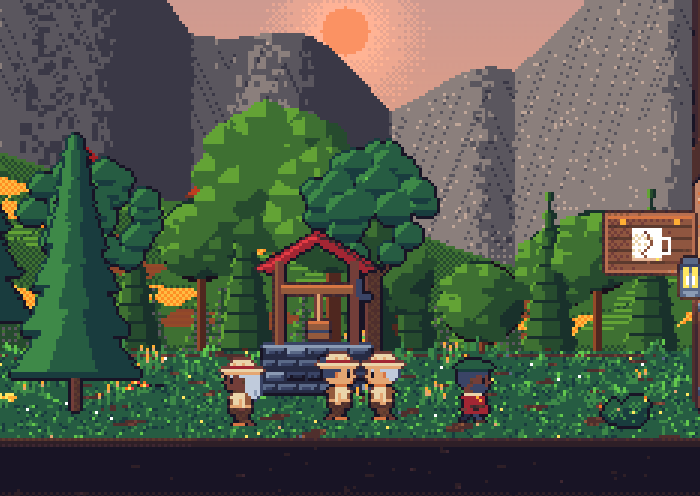
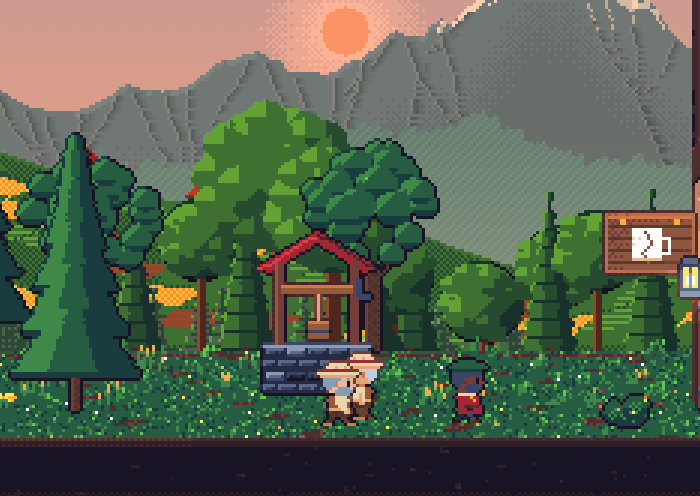
Montañas: silueta de sierra de verdad, lejanas con bruma, nieve a manchas y cañadas que confluyen
- La cresta (común al día y a la noche): cumbres agudas de tres tamaños con flancos cóncavos,
  collados y hombros sobre una base común, y la cresta mellada en lo alto. Antes eran cúpulas
  redondas con puntas hacia abajo.
- De día: la silueta de noche aclarada con la luz azulada (como antes) y bruma que sube del
  horizonte; nieve a manchas que baja más en las cumbres altas; bosque azulado al pie, mellado.
- Cañadas: nacen en la cresta a cada lado de cada pico, bajan en diagonal serpenteando y se
  juntan en un barranco; en lo alto guardan nieve; la cresta de al lado, al sol, y la otra en
  sombra.

Claude-Session: https://claude.ai/code/session_011Wau2CUcks799q681YrKG8

diff --git a/src/world/parallax.ts b/src/world/parallax.ts
@@ -93,9 +93,25 @@ export function stars(): Star[] {
 
 /** Cresta de las montañas: picos marcados (valor absoluto de senos) y algo de detalle. */
 export function ridgeAt(x: number): number {
-  const a = Math.abs(Math.sin(x * 0.013 + 0.4)) * 58;
-  const c = Math.abs(Math.sin(x * 0.029 + 2.1)) * 22;
-  return 238 - a - c - Math.sin(x * 0.11) * 3;
+  // Picos agudos (1 − |sen|: punta arriba, valle redondo abajo) y, con la potencia, flancos
+  // cóncavos que se abren hacia abajo, como los montes de verdad; de tres tamaños.
+  const peak = (f: number, ph: number, p: number) => (1 - Math.abs(Math.sin(x * f + ph))) ** p;
+  // Sobre una base común (la sierra no se corta: collados y hombros entre las cumbres).
+  const base = 18 + Math.sin(x * 0.004 + 1) * 6;
+  const big = peak(0.0105, 0.4, 1.2) * 46;
+  const mid = peak(0.027, 2.1, 1.3) * 22 * (0.55 + big / 90);
+  const small = peak(0.071, 0.7, 1.2) * 7;
+  const h = base + big + mid + small;
+  // En lo alto, la cresta mellada: agujas y muescas de roca (más cuanto más alto).
+  const i = Math.floor(x / 3);
+  const u = x / 3 - i;
+  const crag = (a: number) => {
+    let v = Math.imul(a * 374761393 + 13, 1274126177);
+    v ^= v >>> 13;
+    return ((Math.imul(v, 1103515245) >>> 0) % 1000) / 1000 - 0.5;
+  };
+  const rough = crag(i) + (crag(i + 1) - crag(i)) * u;
+  return 244 - h - rough * 5 * Math.min(1, Math.max(0, h - 20) / 40);
 }
 
 /** Lomo de las colinas. */
@@ -291,52 +307,175 @@ const hash = (x: number, y: number, s = 0) => {
 };
 
 /**
- * Montañas de día: lejos y azuladas (la bruma), con la cara al sol clara y la otra en sombra,
- * cañadas que bajan de los picos, nieve en lo alto y un bosque azulado en el pie.
+ * Las cañadas de las montañas, como en la realidad: a cada lado de cada pico nacen varias en la
+ * cresta, bajan en diagonal y se juntan en un punto; de ahí sigue un solo barranco, que se
+ * pierde en la bruma. Oscuras, con el borde de la izquierda (al sol) más claro.
+ */
+function gullies(b: PixelBuffer): void {
+  const inside = (x: number, y: number) => b.inside(x, y) && b.get(x, y) >>> 24 !== 0;
+  /** Oscurece (`k` < 1) o aclara hacia el blanco (`k` > 1) un píxel ya pintado. */
+  const tone = (x: number, y: number, k: number) => {
+    const c = b.get(x, y);
+    const ch = [c & 255, (c >> 8) & 255, (c >> 16) & 255].map((v) =>
+      Math.round(k < 1 ? v * k : v + (255 - v) * (k - 1)),
+    );
+    b.data[y * b.w + x] = ((255 << 24) | (ch[2]! << 16) | (ch[1]! << 8) | ch[0]!) >>> 0;
+  };
+  const done = new Set<number>();
+  const groove = (
+    x0: number,
+    y0: number,
+    x1: number,
+    y1: number,
+    wide: boolean,
+    fade: number,
+    seed: number,
+  ) => {
+    const n = Math.max(1, Math.abs(x1 - x0), Math.abs(y1 - y0));
+    for (let k = 0; k <= n; k++) {
+      const u = k / n;
+      // En diagonal, algo más derecha arriba, y serpenteando un poco.
+      const wob = Math.sin(u * 9 + seed * 7) * 0.9 * Math.sin(u * Math.PI);
+      const x = Math.round(x0 + (x1 - x0) * u ** 1.15 + wob);
+      const y = Math.round(y0 + (y1 - y0) * u);
+      if (!inside(x, y) || y <= Math.round(ridgeAt(x)) + 1) continue;
+      // Se desvanece hacia abajo (la bruma se la come) y no entra en el bosque.
+      if (bayer(x, y) > 1 - (fade + u * (1 - fade)) * 0.7) continue;
+      if (y > forestAt(x) - 1) continue;
+      const top = Math.round(ridgeAt(x));
+      // En lo alto, la cañada guarda nieve: una franja blanca (como los canales de la foto).
+      if (y - top < snowAt(x, top) * 2.4 && u < 0.6) {
+        for (let w = 0; w < (wide ? 2 : 1); w++)
+          if (inside(x + w, y) && !done.has(y * b.w + x + w)) {
+            done.add(y * b.w + x + w);
+            tone(x + w, y, 1.55);
+          }
+        continue;
+      }
+      for (let w = 0; w < (wide ? 2 : 1); w++) {
+        const key = y * b.w + x + w;
+        if (done.has(key) || !inside(x + w, y)) continue;
+        done.add(key);
+        tone(x + w, y, 0.8);
+      }
+      // El borde de la izquierda, al sol; a la derecha, la sombra del espolón.
+      const lx = x - 1;
+      if (inside(lx, y) && !done.has(y * b.w + lx)) {
+        done.add(y * b.w + lx);
+        tone(lx, y, 1.12);
+      }
+      for (const [dx, k] of [
+        [wide ? 2 : 1, 0.9],
+        [wide ? 3 : 2, 0.95],
+      ] as const) {
+        const key = y * b.w + x + dx;
+        if (inside(x + dx, y) && !done.has(key)) {
+          done.add(key);
+          tone(x + dx, y, k);
+        }
+      }
+    }
+  };
+  // Los picos: donde la cresta es más alta que alrededor.
+  for (let x = 6; x < b.w - 6; x++) {
+    const top = ridgeAt(x);
+    let peak = true;
+    for (let d = 1; d <= 8 && peak; d++)
+      if (ridgeAt(x - d) < top || ridgeAt(x + d) < top) peak = false;
+    if (!peak) continue;
+    const tall = GROUND - top;
+    if (tall < 30) continue;
+    for (const side of [-1, 1]) {
+      const r = (i: number) => hash(x * 2 + (side > 0 ? 1 : 0), i, 21);
+      // Dónde se juntan (cada pico a su manera), y el barranco que sigue.
+      const meet = {
+        x: Math.round(x + side * (8 + tall * (0.14 + r(1) * 0.12))),
+        y: Math.round(top + tall * (0.32 + r(2) * 0.18)),
+      };
+      const end = {
+        x: meet.x + side * Math.round(tall * (0.08 + r(3) * 0.14)),
+        y: Math.round(GROUND - 12 - r(4) * 8),
+      };
+      groove(meet.x, meet.y, end.x, end.y, true, 0.3, r(5));
+      // Las que bajan de la cresta hasta juntarse; alguna llega al barranco más abajo y otra
+      // se queda corta (no todas iguales).
+      const n = 2 + Math.floor(r(6) * 3);
+      let sx = x + side * Math.round(1 + r(7) * 3);
+      for (let k = 0; k < n; k++) {
+        if (r(10 + k) < 0.2) continue;
+        const sy = Math.round(ridgeAt(sx)) + 2;
+        const v = k === n - 1 && r(20 + k) < 0.6 ? 0.3 + r(30 + k) * 0.3 : 0;
+        groove(
+          sx,
+          sy,
+          Math.round(meet.x + (end.x - meet.x) * v),
+          Math.round(meet.y + (end.y - meet.y) * v),
+          false,
+          0,
+          r(40 + k),
+        );
+        sx += side * Math.round(3 + tall * 0.04 + r(50 + k) * 6);
+      }
+    }
+  }
+}
+
+/**
+ * Montañas de día: la misma silueta de la noche, aclarada con la luz azulada del día (como un
+ * `screen` con el azul del cielo) y con bruma que sube del horizonte: lo lejano, pálido.
  */
 export function dayMountains(): PixelBuffer {
-  const b = new PixelBuffer(LAYER_W, WORLD_H);
-  for (let x = 0; x < LAYER_W; x++) {
+  const b = buildMountains();
+  // Primero, en los colores de la noche: la nieve a manchas y el bosque del pie.
+  for (let x = 0; x < b.w; x++) {
     const top = Math.round(ridgeAt(x));
     const slope = ridgeAt(x + 1) - ridgeAt(x - 1);
+    const snow = snowAt(x, top);
+    const wood = forestAt(x);
     for (let y = top; y < GROUND; y++) {
       const depth = y - top;
-      // La luz por la izquierda: la cara que sube hacia la derecha, clara; la otra, en sombra.
-      // Manchas de 2 × 2 (no un damero de píxeles sueltos): se ven como roca, no como grano.
-      const k = -slope * 0.9 + (hash(x >> 1, y >> 1, 7) - 0.5) * 0.3;
-      let c: string =
-        k > 0.45
-          ? P.fog
-          : k > 0.05
-            ? hash(x >> 1, y >> 1, 6) < (k - 0.05) / 0.4
-              ? P.fog
-              : P.steel
-            : k > -0.6
-              ? P.steel
-              : P.slate;
-      // Cañadas: bajan en diagonal desde la cresta, del lado de cada cara.
-      const along = slope < 0 ? x * 2 + depth : x * 2 - depth;
-      if (
-        depth > 3 &&
-        depth < 60 &&
-        (((along % 19) + 19) % 19 === 0 || ((along % 31) + 31) % 31 === 0)
-      )
-        c = c === P.fog ? P.steel : P.slate;
-      // Vetas de roca: algún punto claro suelto en la cara al sol.
-      if (k > 0.45 && hash(x, y, 2) < 0.04) c = P.mist;
-      // Nieve en las cumbres altas, con su borde roto.
-      const snow = 7 - Math.floor((top - 150) / 6) + (hash(x >> 1, 4, 4) < 0.35 ? 2 : 0);
-      if (top < 178 && depth < snow) c = k > -0.2 ? (k > 0.45 ? P.white : P.mist) : P.fog;
-      // Bruma: hacia el horizonte se aclara y se azula.
-      const haze = (y - (GROUND - 46)) / 46;
-      if (haze > 0 && bayer(x + 1, y) < haze * 0.55) c = c === P.slate ? P.steel : P.fog;
-      // El bosque del pie, azulado por la distancia.
-      const foot = GROUND - 12 - Math.round(Math.sin(x * 0.07) * 4 + hash(x >> 1, 3, 5) * 3);
-      if (y > foot) c = (x + y) % 3 === 0 ? P.slate : P.steel;
+      let c: string = depth > 18 && bayer(x, y) < Math.min(1, (depth - 18) / 30) ? P.black : P.navy;
+      // La nieve: más en lo alto, con calvas de roca.
+      if (depth < snow && hash(x >> 1, (y >> 1) + 3, 13) > 0.22 - depth * 0.02)
+        c = slope < 0.2 ? P.white : P.mist;
+      // El filo de la cresta, a la luz.
+      else if (slope < -0.25 && depth < 2) c = P.slate;
+      // El bosque, con las copas en el borde.
+      if (y > wood - ((x >> 1) % 2)) c = (x + y) % 3 === 0 ? P.forest : P.deep;
       b.set(x, y, c);
     }
   }
+  // La luz azulada del día y la bruma.
+  const sky = [207, 233, 242];
+  const tint = [70, 105, 120];
+  for (let y = 0; y < b.h; y++) {
+    // La bruma: algo en todo el monte y más cuanto más cerca del horizonte.
+    const haze = 0.14 + 0.3 * Math.max(0, Math.min(1, (y - (GROUND - 70)) / 70));
+    for (let x = 0; x < b.w; x++) {
+      const c = b.data[y * b.w + x]!;
+      if (!(c >>> 24)) continue;
+      const ch = [c & 255, (c >> 8) & 255, (c >> 16) & 255].map((v, i) => {
+        const lit = 255 - ((255 - v) * (255 - tint[i]!)) / 255;
+        return Math.round(lit + (sky[i]! - lit) * haze);
+      });
+      b.data[y * b.w + x] = ((255 << 24) | (ch[2]! << 16) | (ch[1]! << 8) | ch[0]!) >>> 0;
+    }
+  }
+  gullies(b);
   return b;
+}
+
+/** Hasta dónde baja la nieve desde la cresta (en lo bajo, nada). */
+function snowAt(x: number, top: number): number {
+  if (top > 190) return 0;
+  return Math.round((190 - top) / 3 + hash(x >> 2, 5, 14) * 4);
+}
+
+/** Dónde empieza el bosque del pie de los montes (sube y baja, mellado). */
+function forestAt(x: number): number {
+  return Math.round(
+    GROUND - 66 - Math.sin(x * 0.031 + 1) * 9 - Math.sin(x * 0.11) * 3 - hash(x >> 2, 6, 15) * 4,
+  );
 }
 
 /**
